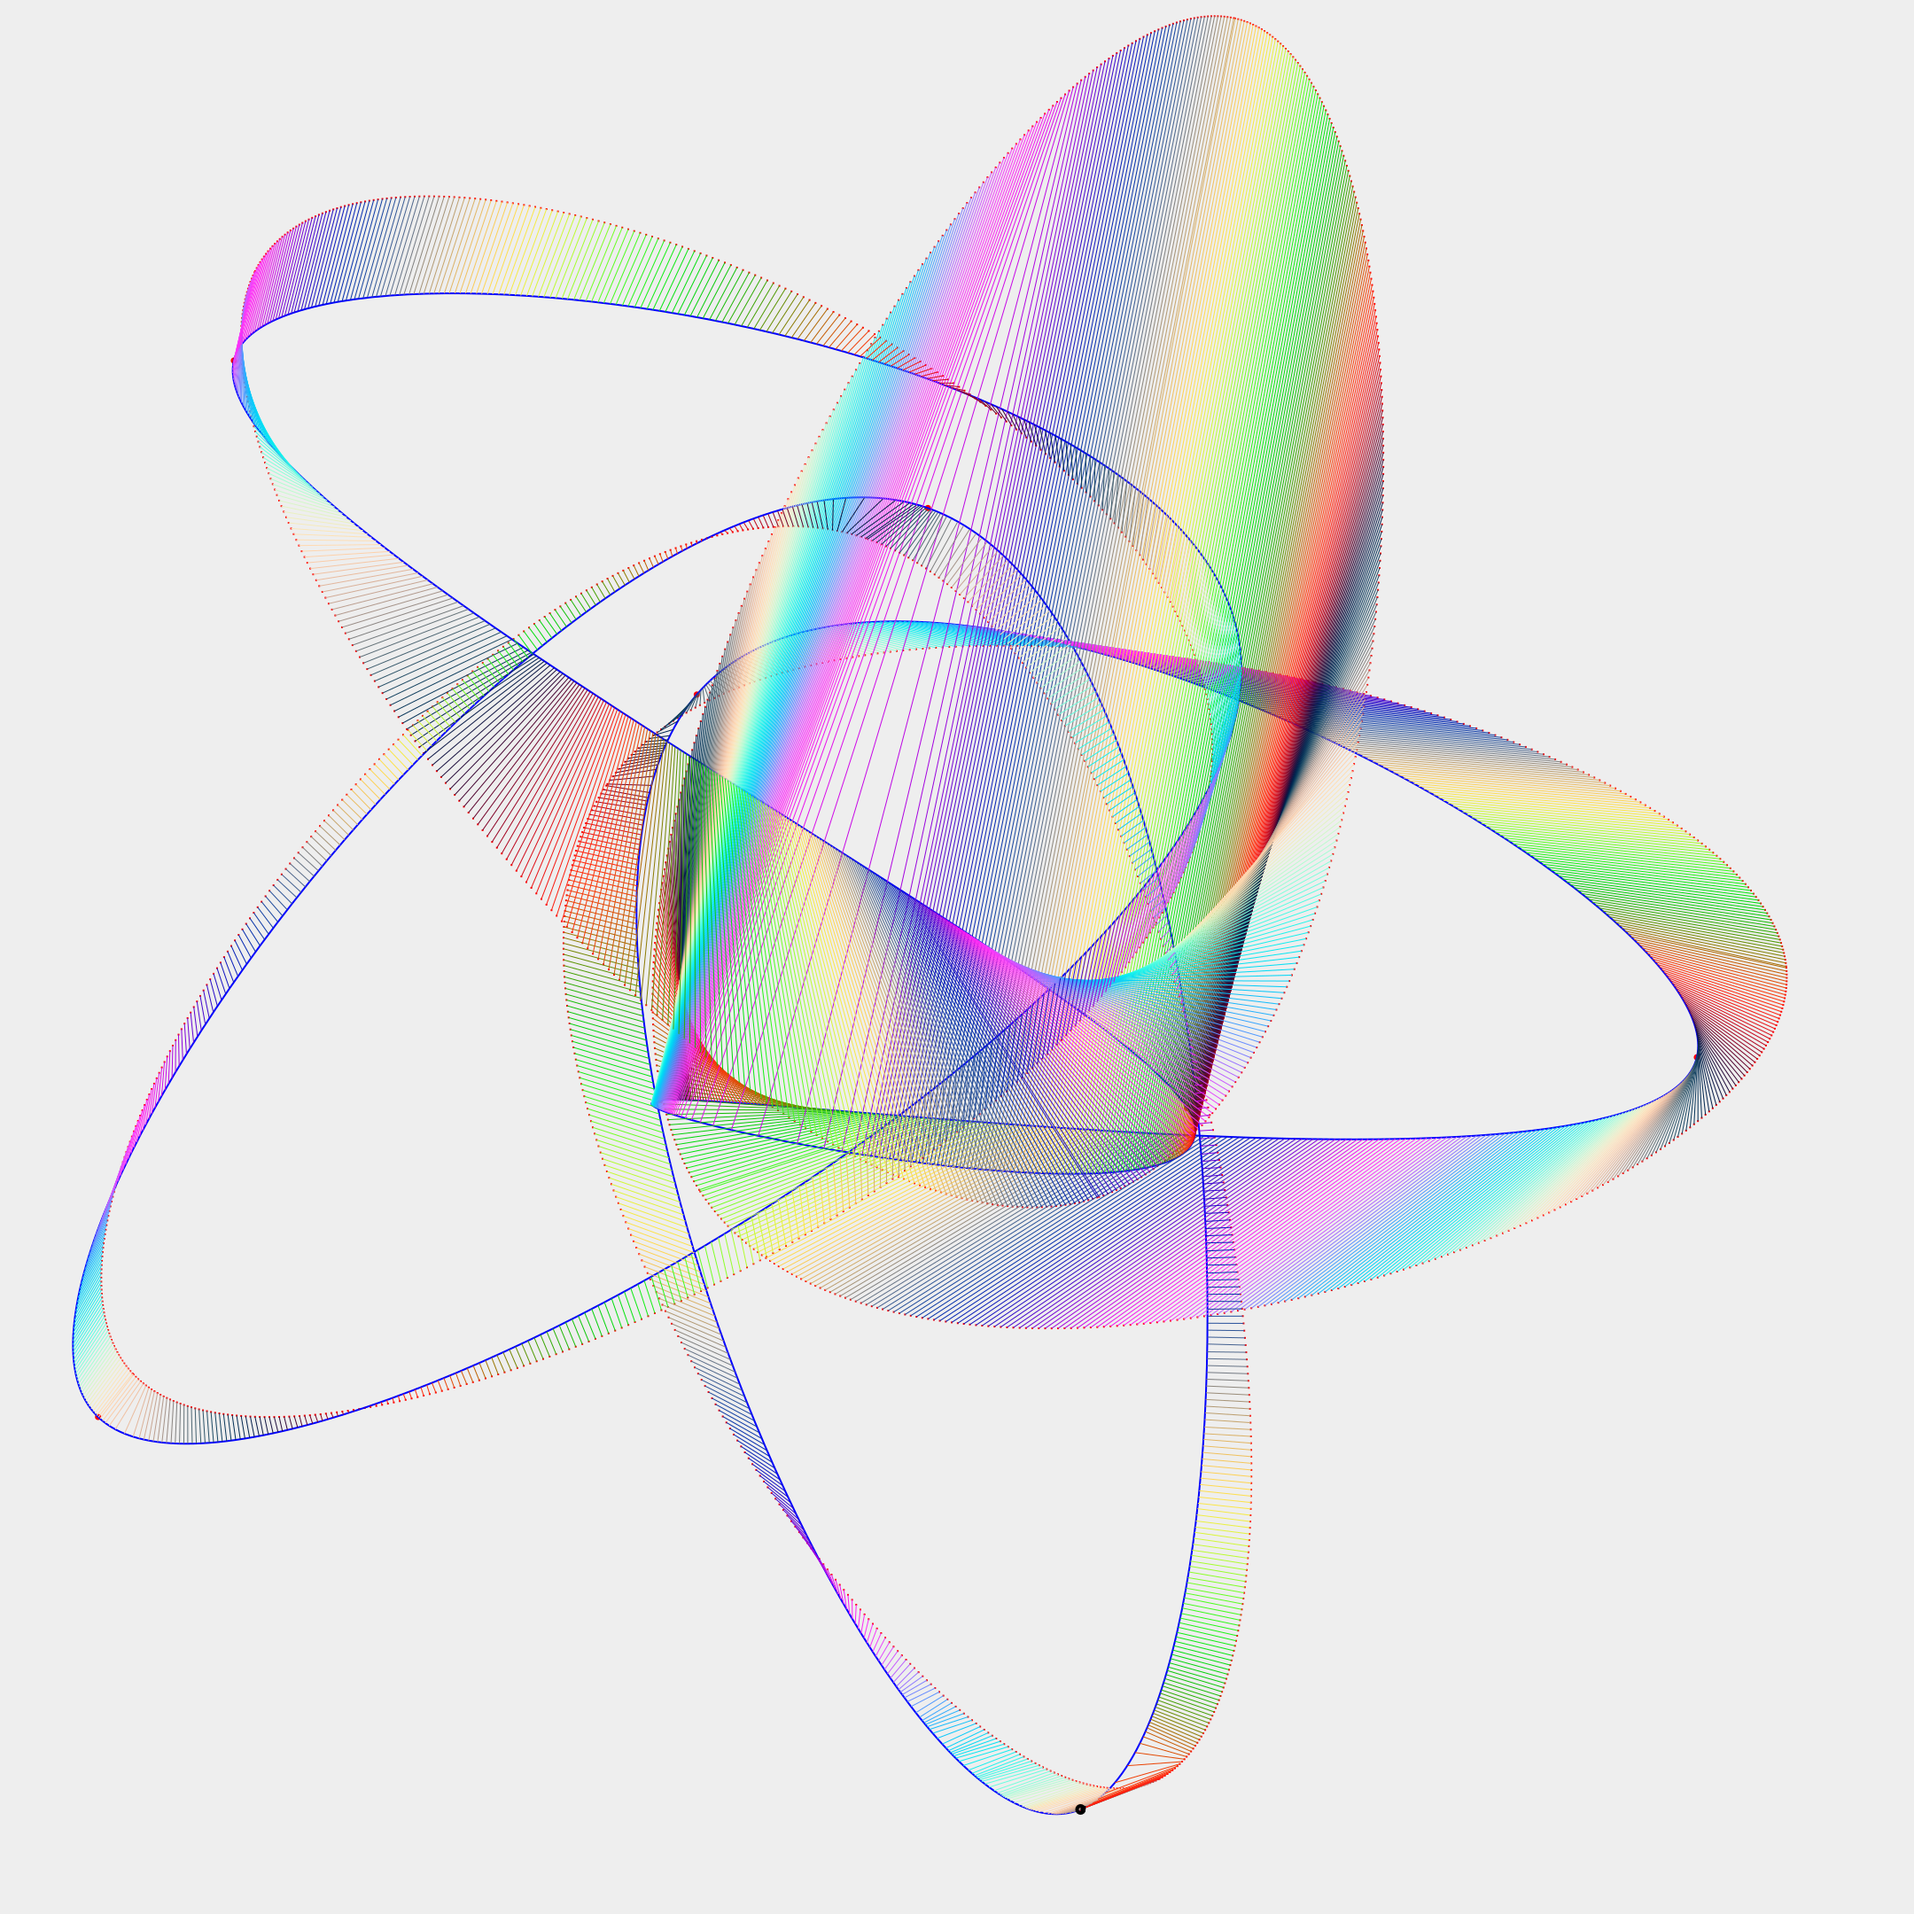
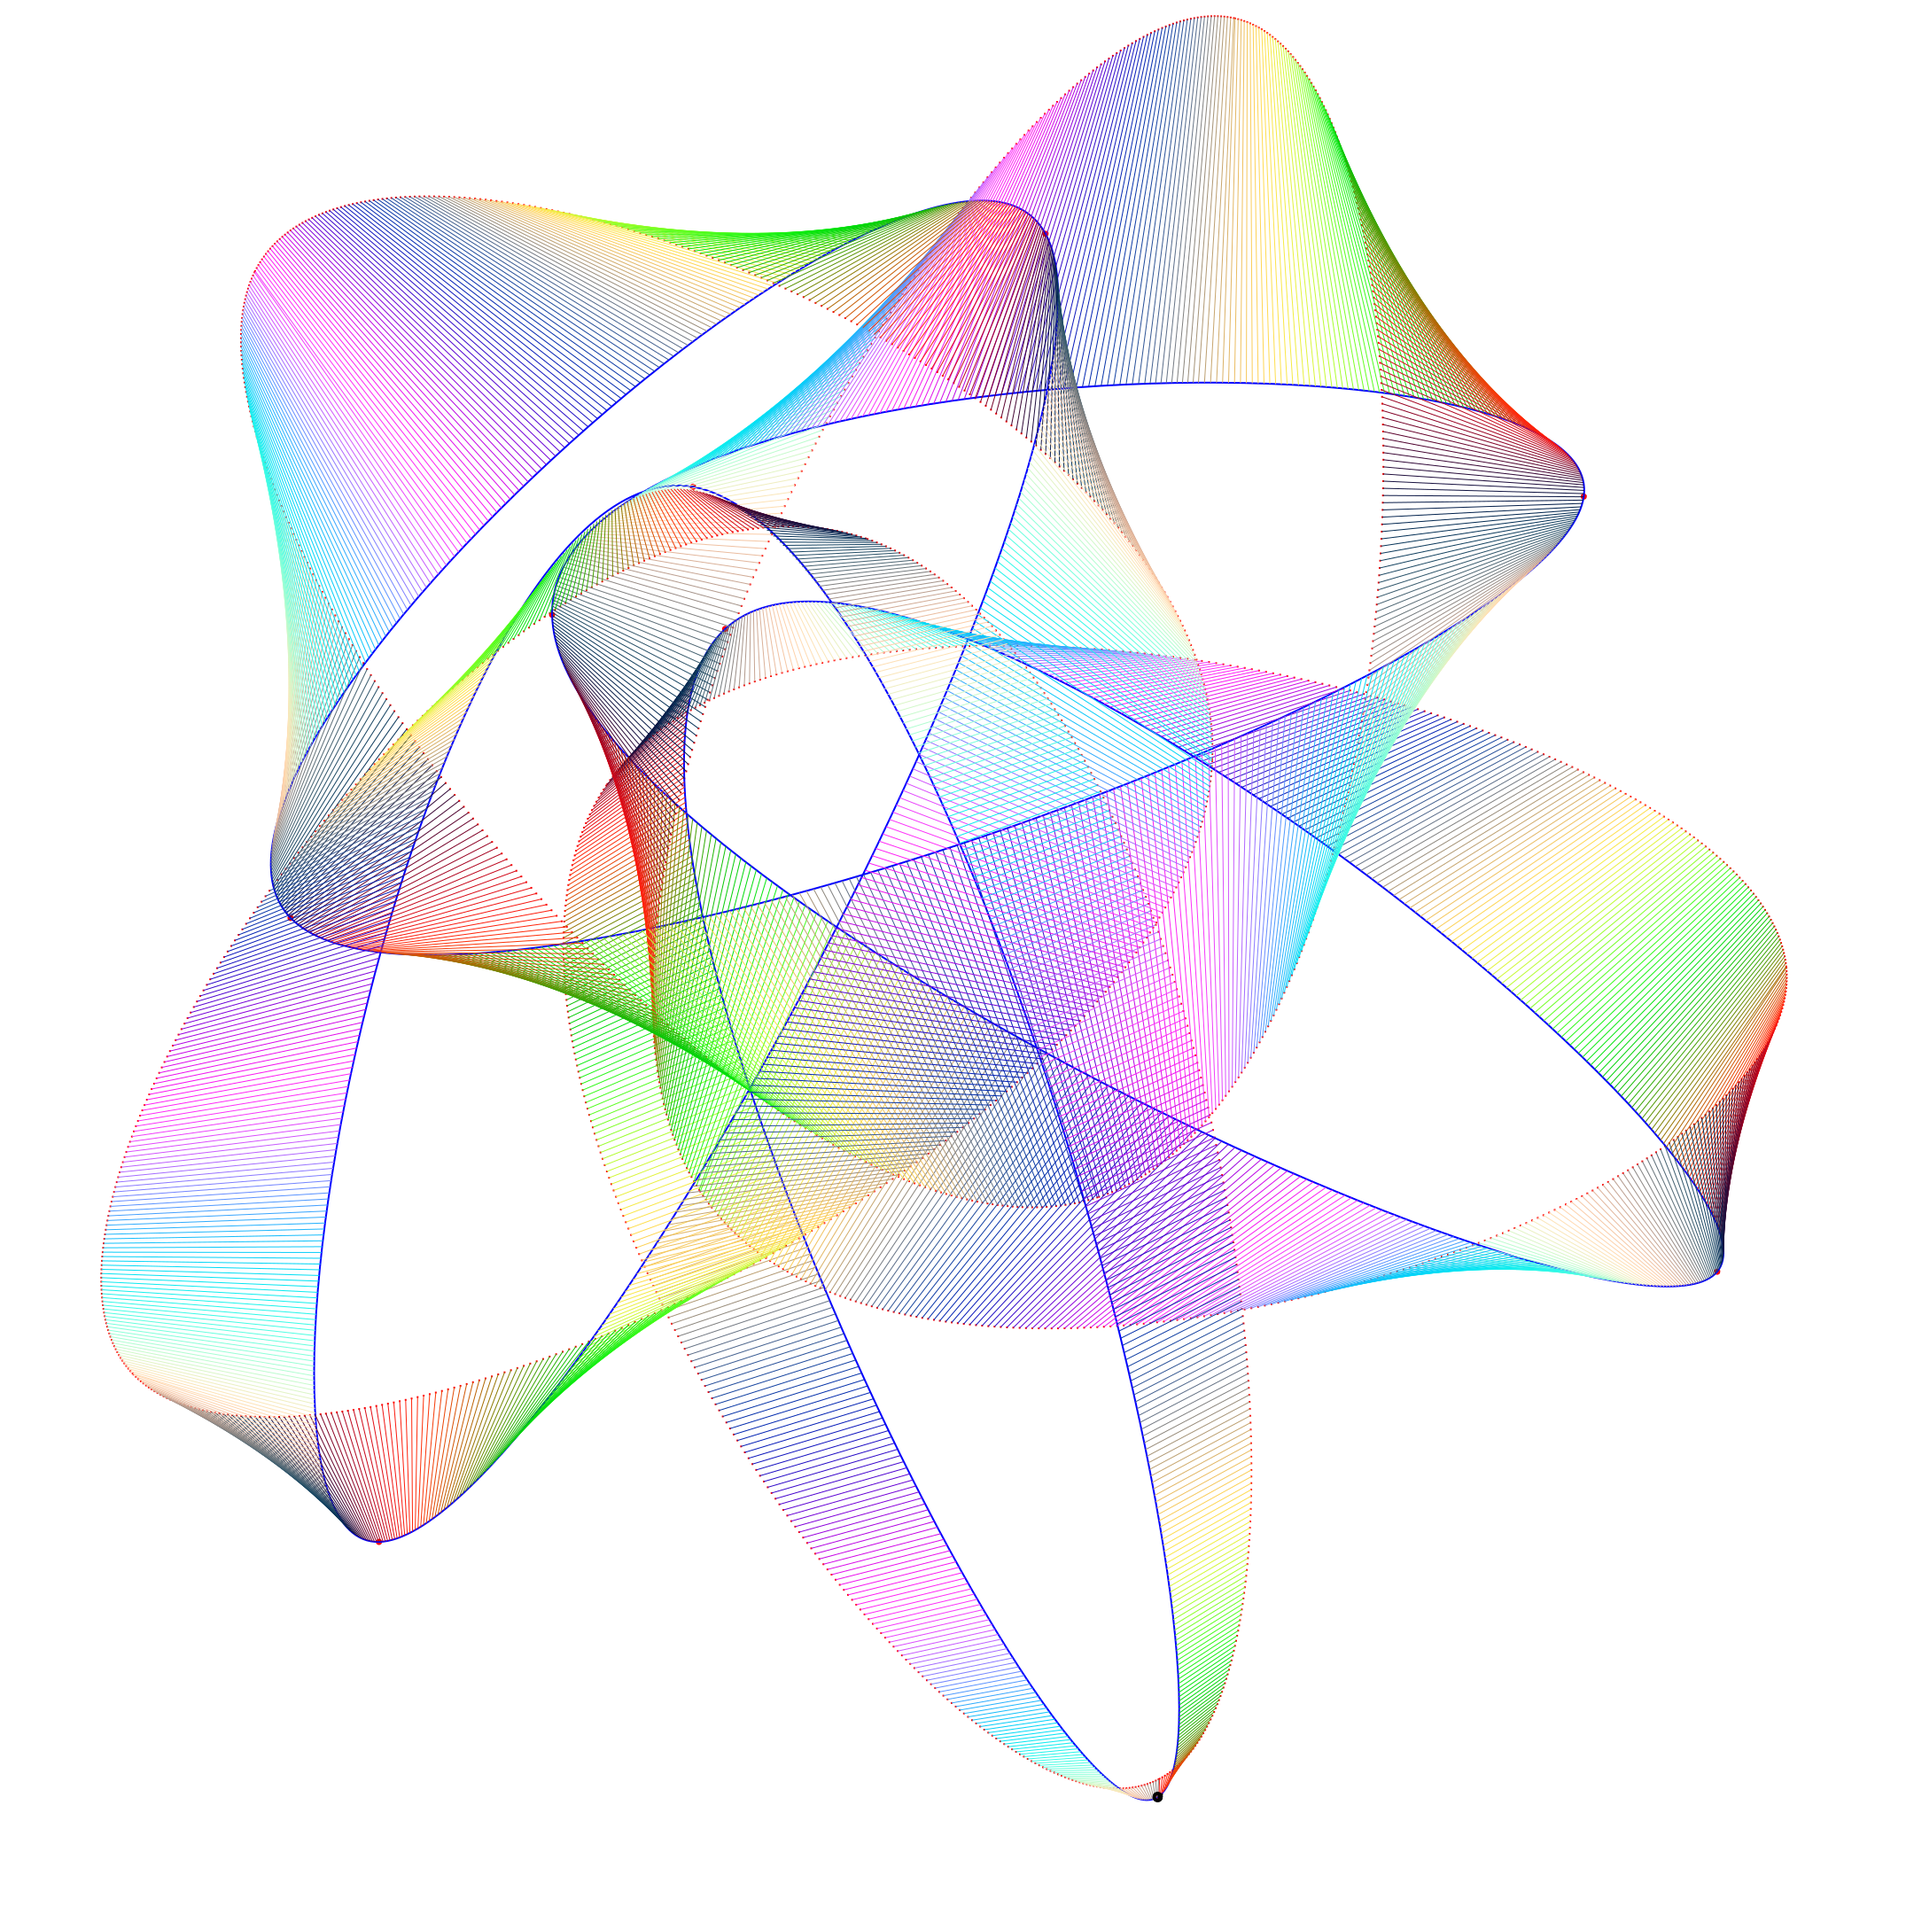
Improeved `tester-compare` and gh-page background.

Changed region(s): [[0.031, 0.0, 0.9306, 0.9616]]

diff --git a/docs/index.html b/docs/index.html
@@ -34,12 +34,31 @@
 			position: absolute;
 			z-index: -1;
 			width: 100%;
-		}
+			margin: auto;
+			padding: 0;
+			top: 0;
+			bottom: 0;
+			left: 0;
+			right: 0;
+			overflow: hidden;
+		}}
         </style>
+	<script type="text/javascript">
+	window.addEvent('resize', function () {
+		let w = document.body.clientWidth;
+		let h = document.body.clientHeight;
 
+
+		// set fontsize
+		dofontresize();
+		// resize preview image
+		if (clip.wh)
+			clip.loadPreviewImage(clip.image);
+	});
+	</script>
 </head>
 <body>
-<img id="bg" src="tester-balanced-Yerr.png"/>
+<img id="bg" src="tester-compare.png"/>
 
 <h1>Closed Continuous B&eacute;zier Curves (recalculated)</h1>
 

diff --git a/docs/tester-compare.js b/docs/tester-compare.js
@@ -557,7 +557,7 @@ function Bezier() {
 	this.segI = [];		// starting fragment of contour segment
 	this.segDir = [];	// when updating the segment/fragment mapping, which direction do the segments move
 	this.segLen = [];	// length of segment
-	this.maxRatio = 1.5;	// adjacent segments may not exceed this length difference
+	this.maxRatio = 1.2;	// adjacent segments may not exceed this length difference
 
 	this.compareUpdateControls = function() {
 		const AX = this.AX;

diff --git a/CHANGELOG.md b/CHANGELOG.md
@@ -8,6 +8,7 @@ and this project adheres to [Semantic Versioning](http://semver.org/spec/v2.0.0.
 ## [Unreleased]
 
 ```
+2020-09-18 11:49:03 Improeved `tester-compare` and gh-page background.
 2020-09-18 01:47:17 Theme gh-pages.
 2020-09-17 23:31:11 Added `docs/resize.*` unfinished implementation of dynamic composite curve with slider.
 2020-09-17 23:19:55 Added `tester-compare.*`.
